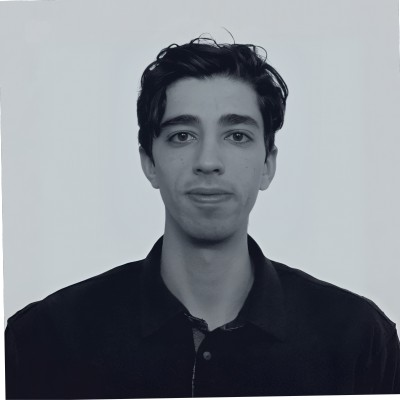
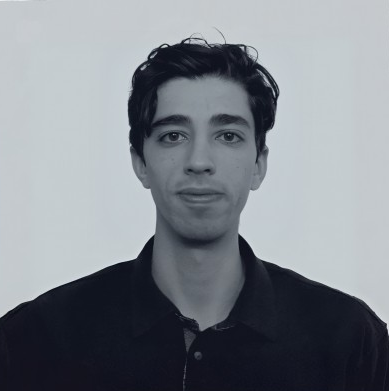
css class and pfp fix

diff --git a/src/app/features/home/components/sections/projects/content-project-card/content-project-card.component.html b/src/app/features/home/components/sections/projects/content-project-card/content-project-card.component.html
@@ -20,7 +20,7 @@
       <!-- Hover glow -->
       <div class="absolute inset-0 opacity-0 transition-opacity duration-500
            group-hover:opacity-100
-           bg-gradient-to-br
+           bg-linear-to-br
            from-[rgb(var(--brand-rgb)/0.18)]
            via-transparent
            to-[rgb(var(--brand-rgb)/0.08)]">
